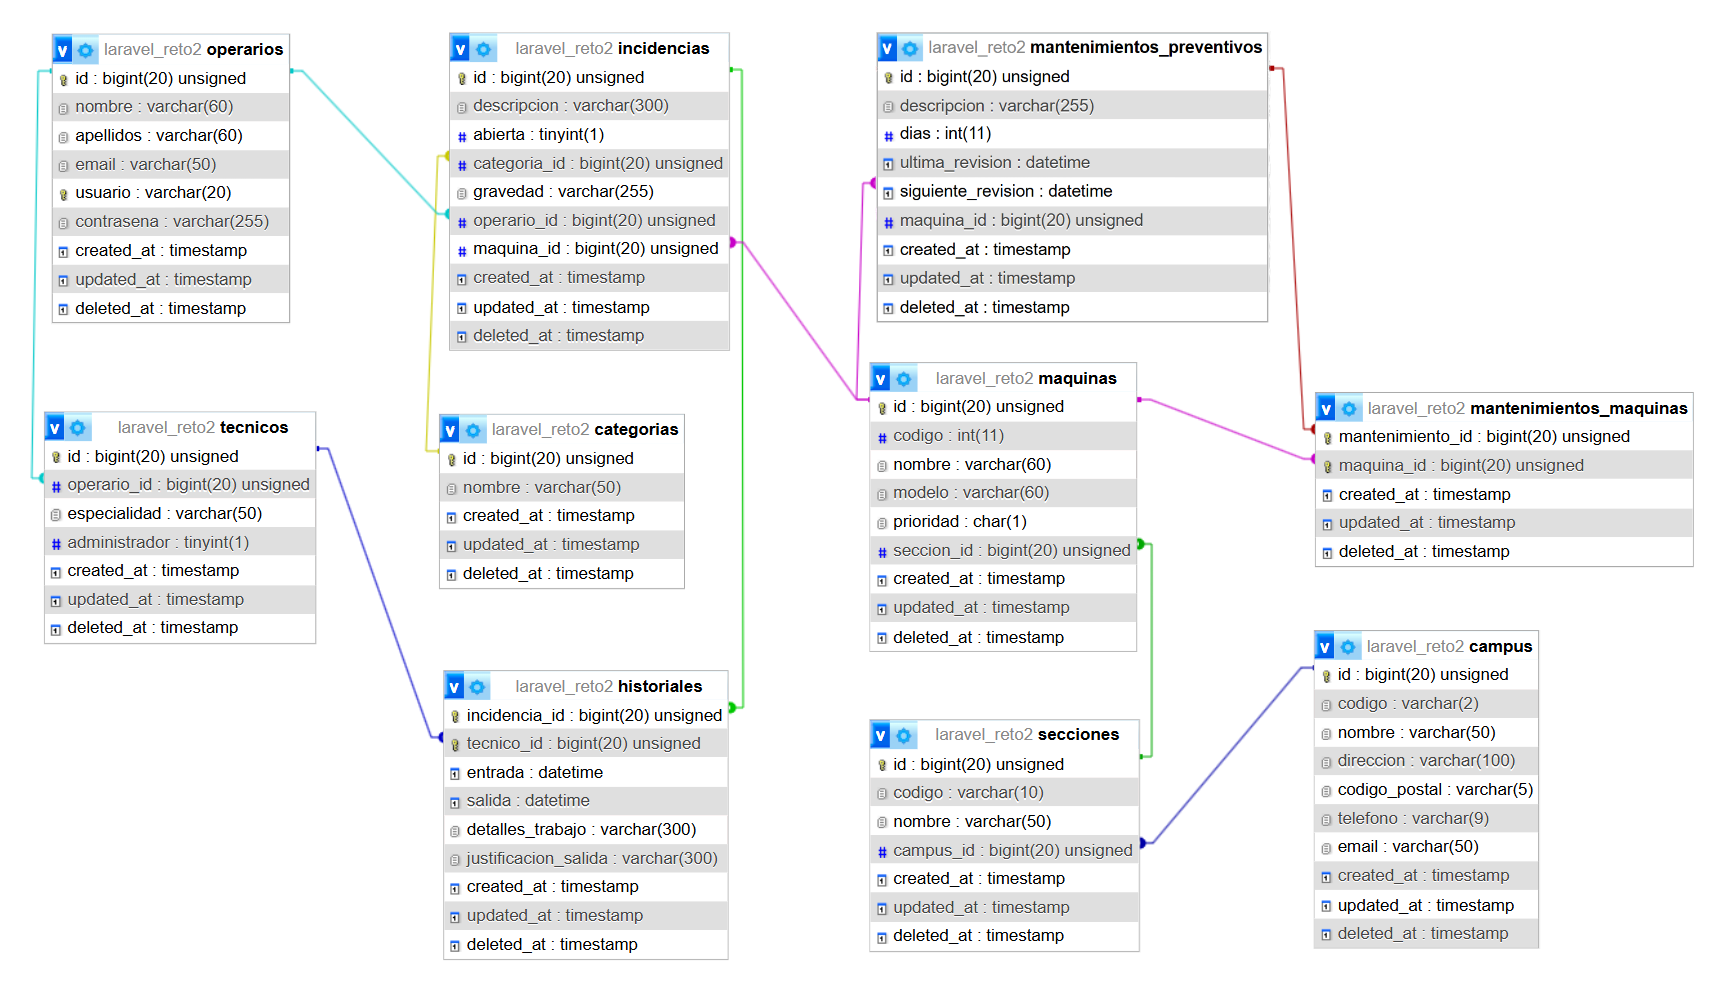
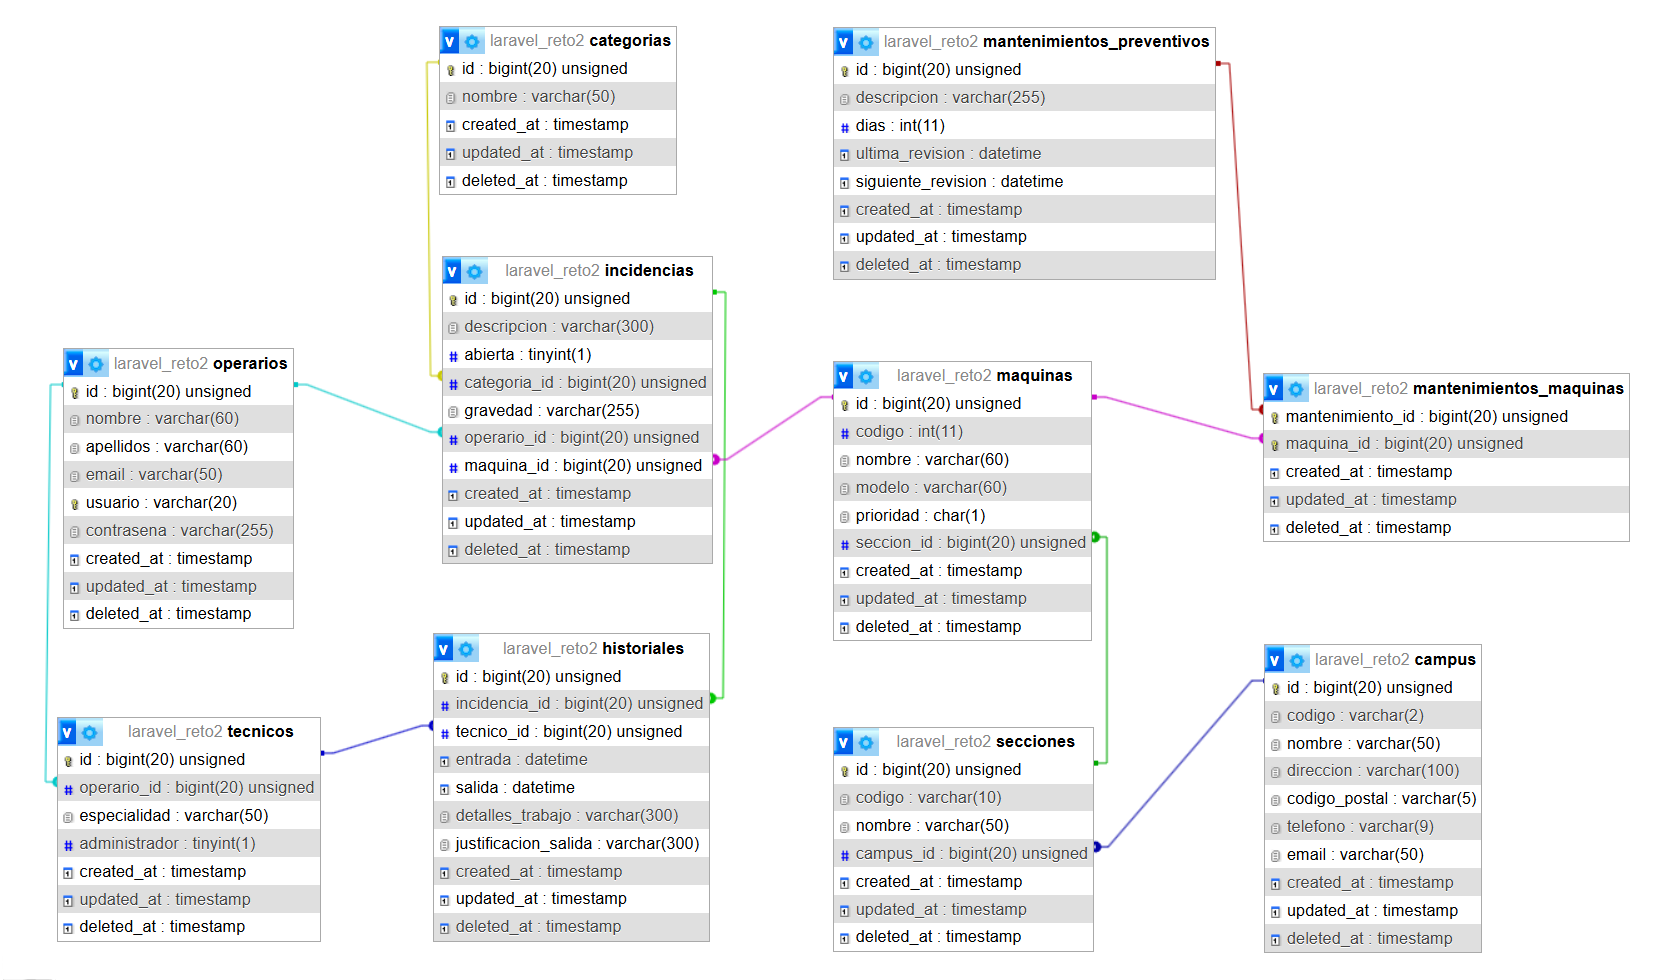
Revisar login, seguir con funcionalidad filtros, subir archivos. Corregir código del login, continuar con la funcionalidad de filtrar incidencias, actualizar archivos (MER, SQL, Postman), y corregir otros archivos.

diff --git a/vue_reto2/src/components/IniciarSesion.vue b/vue_reto2/src/components/IniciarSesion.vue
@@ -6,31 +6,42 @@
 
     const router = useRouter();
 
-    const username = ref('')
-    const password = ref('');
+    const username = ref("");
+    const password = ref("");
     const usernameInput = ref(null);
     const passwordInput = ref(null);
 
     const datos = ref([]);
 
-    async function iniciarSesion(operarioId){
+    async function iniciarSesion(){
         try{
-            const response = await api.get(`/operario/${operarioId}`);
-            datos.value = response.data.data;
-            if (username.value != "" && password.value != ""){
-                router.push(`/operario/${operarioId}`);
+            if (username.value === "" && password.value === ""){
+              alert("Las casillas no pueden estar vacías.");
+              usernameInput.value.focus();
             }
-            else if (username.value == ""){
-                alert("El usuario no puede estar vacío");
-                usernameInput.value.focus();   
-            }
-            else if (password.value == ""){
-                alert("La contraseña no puede estar vacía");
-                passwordInput.value.focus();  
+            else {
+              if (username.value !== "" && password.value !== ""){
+                // TODO : Verificar que existe con esos 2 datos.
+                //  Habrá que mandar el user y la contra para mirar que están registrados juntos, y luego guardar el 'usuario_id' en LocalStorage (por ejemplo) para luego poder acceder a él y ver sus incidencias y demás.
+                /*
+                const response = await api.get('/operario/${usernameInput.value}/${passwordInput.value}');
+                datos.value = response.data.data;
+                 */
+                // Si existe habrá que ir a esta ventana:
+                router.push('/operario');
+              }
+              else if (username.value === ""){
+                alert("El usuario no puede estar vacío.");
+                usernameInput.value.focus();
+              }
+              else {
+                alert("La contraseña no puede estar vacía.");
+                passwordInput.value.focus();
+              }
             }
         } catch (error) {
             console.error('Error al iniciar sesión:', error);
-            alert('Usuario o contraseña incorrectos');
+            alert('Usuario o contraseña incorrectos.');
         }
     }
 

diff --git a/vue_reto2/src/views/OperarioView.vue b/vue_reto2/src/views/OperarioView.vue
@@ -30,19 +30,12 @@
     const filtroSeccion = ref('');
     const filtroCategoria = ref('');
 
-    const descripcion = ref("");
-    const categoria = ref("");
-    const gravedad = ref("");
-    const maquina = ref("");
-
-    // Listas reactivas que contienen los datos obtenidos de la API.
+    // Listas reactivas que contienen los datos obtenidos de la API para luego poder gestionar los filtros.
     const campus = ref([]);
     const secciones = ref([]);
     const categorias = ref([]);
     const incidencias = ref([]);
     const maquinas = ref([]);
-    
-    const detalles = ref([]);
 
     // Guardar los datos originales de las incidencias para no perderlos al filtrar. Este array no se modificará.
     const incidenciasOriginal = ref([]);
@@ -55,6 +48,13 @@
       INCIDENCIAS: '/incidencias',
       MAQUINAS: '/maquinas',
     };
+
+    const descripcion = ref("");
+    const categoria = ref("");
+    const gravedad = ref("");
+    const maquina = ref("");
+
+    const detalles = ref([]);
 
     // Función para obtener los datos desde el backend.
     // Se conecta con la API de Laravel utilizando Axios y realiza una solicitud GET a '/datos'.
@@ -102,6 +102,7 @@
         });
       }
 
+      // TODO : Hay que filtrarlo de tal manetra que solamente se ordenen como 'desc' o 'asc' (o sea que no se descarte ninguna).
       // Filtrar por fecha
       if (filtroFecha.value !== '1') {
         incidenciasFiltradas = incidenciasFiltradas.sort((a, b) => {
@@ -167,7 +168,8 @@
     }
 
 
-    // TODO
+    // TODO : Hacer lo correspondiente de "Crear incidencia".
+
     function validarIncidencia() {
       if (!descripcion.value) return 'La descripción está vacía.';
       if (!categoria.value) return 'La categoría no está seleccionada.';

diff --git a/vue_reto2/src/router/index.js b/vue_reto2/src/router/index.js
@@ -11,7 +11,7 @@ const router = createRouter({
       props: true,
     },
     {
-      path: '/operario/:id',
+      path: '/operario',
       name: 'Ventana operario',
       // route level code-splitting
       // this generates a separate chunk (About.[hash].js) for this route

diff --git a/laravel_reto2/routes/api.php b/laravel_reto2/routes/api.php
@@ -12,13 +12,10 @@ use App\Http\Controllers\MantenimientoController;
 use App\Http\Controllers\CampusController;
 use Illuminate\Support\Facades\Route;
 
-// TODO
-
 /*
  * Definir rutas HTTP GET para obtener los datos de la ventana de incidencias desde
  * el controlador de Laravel y enviarlas al frontend en Vue.
 */
-
 Route::get('/campus', [CampusController::class, 'list']);
 Route::get('/secciones', [SeccionController::class, 'list']);
 Route::get('/categorias', [CategoriaController::class, 'list']);
@@ -26,10 +23,10 @@ Route::get('/incidencias', [IncidenciaController::class, 'list']);
 Route::get('/maquinas', [MaquinaController::class, 'list']);
 
 
-
 //Route::get('/incidencias', [IncidenciaController::class, 'show']);
 Route::get('/incidencias/{incidencia}', [IncidenciaController::class, 'detalle']);
 Route::post('/createIncidencia',[IncidenciaController::class, 'create']);
+
 
 //Sacar solo las incidencias solucionadas del usuario que inicie sesion
 Route::get('/misIncidenciasSolucionadas/{id}', [IncidenciaController::class, 'misIncidenciasSolucionadas']);
@@ -41,13 +38,13 @@ Route::get('/incidenciasAbiertas', [IncidenciaController::class, 'incidenciasAbi
 
 
 Route::post('/anadir',[HistorialController::class,'anadir']);
+
 Route::post('/actualizar', [HistorialController::class, 'actualizar']);
 
 
-Route::post('/operario/{operario}', [OperarioController::class, 'inicioSesion']);
+Route::post('/operario/{usernameInput}/{passwordInput}', [OperarioController::class, 'inicioSesion']);
 
 
+Route::post('/operario', [OperarioController::class, 'inicioSesion']);
 
-
-
-
+Route::post('/login', [OperarioController::class, 'inicioSesion']);

diff --git a/laravel_reto2/database/migrations/2025_01_15_105728_create_historiales_table.php b/laravel_reto2/database/migrations/2025_01_15_105728_create_historiales_table.php
@@ -13,12 +13,12 @@ return new class extends Migration
     {
         Schema::create('historiales', function (Blueprint $table) {
             $table->id();
-            $table->unsignedBigInteger('incidencia_id');
-            $table->unsignedBigInteger('tecnico_id');
-            $table->dateTime('entrada');
-            $table->dateTime('salida')->nullable(true);
-            $table->string('detalles_trabajo', 300)->nullable(true);
-            $table->string('justificacion_salida', 300)->nullable(true);
+            $table->unsignedBigInteger('incidencia_id')->nullable(false);
+            $table->unsignedBigInteger('tecnico_id')->nullable(false);
+            $table->dateTime('entrada')->nullable(false);
+            $table->dateTime('salida');
+            $table->string('detalles_trabajo', 300);
+            $table->string('justificacion_salida', 300);
             $table->timestamps();
             $table->softDeletes();
 

diff --git a/laravel_reto2/database/migrations/2025_01_15_105538_create_operarios_table.php b/laravel_reto2/database/migrations/2025_01_15_105538_create_operarios_table.php
@@ -23,7 +23,7 @@ return new class extends Migration
             $table->softDeletes();
 
             // Crear un índice compuesto para las columnas 'usuario' y 'contrasena'.
-            // Este índice puede ser útil para las consultas frecuentes usando ambos campos a la vez; es decir, en el login.
+            // Este índice sirve para las consultas frecuentes usando ambos campos a la vez; en el login.
             $table->index(['usuario', 'contrasena'], 'index_login');
 
             // Crear un índice único para la columna 'usuario' para asegurar que no haya usuarios duplicados.
